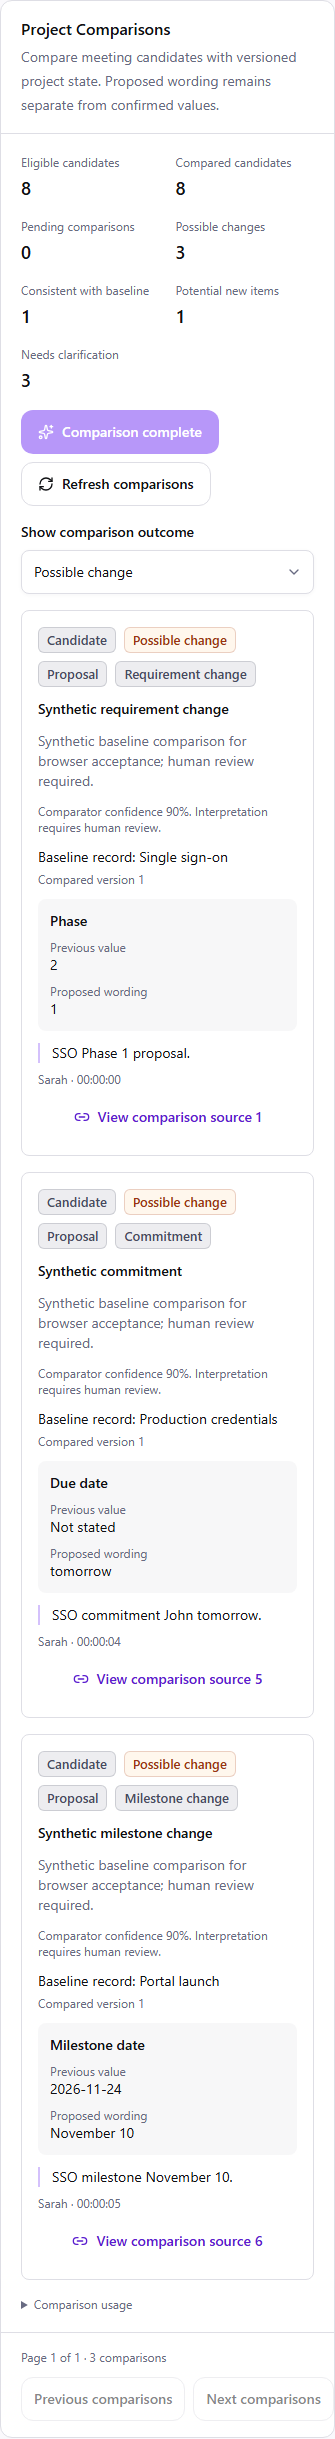
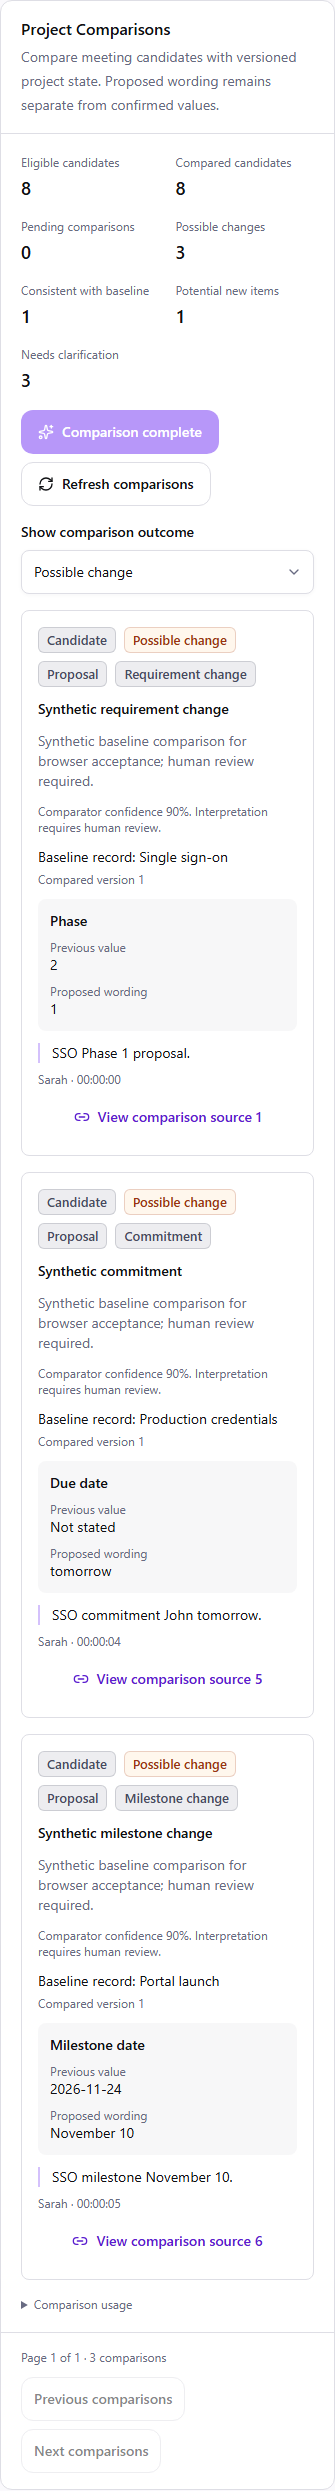
fix(phase-6): wrap comparison pagination on narrow screens

Changed region(s): [[0.0597, 0.0, 0.8657, 0.9971], [0.0896, 0.8725, 0.1194, 0.9036], [0.0896, 0.4051, 0.1194, 0.4362]]

diff --git a/apps/web/tests/e2e/deltas.spec.ts b/apps/web/tests/e2e/deltas.spec.ts
@@ -379,33 +379,34 @@ test("read and write outages preserve transcript and support recovery", async ({
     await request.delete(`${root}/${m.id}`);
   }
 });
-test("mobile keyboard operation wraps and keeps comparisons accessible", async ({
-  page,
-  request,
-}) => {
-  const m = await create(request, ["SSO Phase 1 proposal."]);
-  try {
-    await page.setViewportSize({ width: 375, height: 812 });
-    await page.goto(href(m.id));
-    const panel = region(page),
-      button = panel.getByRole("button", {
-        name: "Compare with project state",
-        exact: true,
-      });
-    await button.focus();
-    await page.keyboard.press("Enter");
-    await metric(panel, "Compared candidates", 1);
-    await panel.getByLabel("Show comparison outcome").focus();
-    await page.keyboard.press("ArrowDown");
-    await page.keyboard.press("Enter");
-    await expect
-      .poll(() =>
-        page.evaluate(
-          () => document.documentElement.scrollWidth <= window.innerWidth,
-        ),
-      )
-      .toBe(true);
-  } finally {
-    await request.delete(`${root}/${m.id}`);
-  }
-});
+for (const width of [320, 375])
+  test(`mobile keyboard operation wraps and keeps comparisons accessible at ${width}px`, async ({
+    page,
+    request,
+  }) => {
+    const m = await create(request, ["SSO Phase 1 proposal."]);
+    try {
+      await page.setViewportSize({ width, height: 812 });
+      await page.goto(href(m.id));
+      const panel = region(page),
+        button = panel.getByRole("button", {
+          name: "Compare with project state",
+          exact: true,
+        });
+      await button.focus();
+      await page.keyboard.press("Enter");
+      await metric(panel, "Compared candidates", 1);
+      await panel.getByLabel("Show comparison outcome").focus();
+      await page.keyboard.press("ArrowDown");
+      await page.keyboard.press("Enter");
+      await expect
+        .poll(() =>
+          page.evaluate(
+            () => document.documentElement.scrollWidth <= window.innerWidth,
+          ),
+        )
+        .toBe(true);
+    } finally {
+      await request.delete(`${root}/${m.id}`);
+    }
+  });

diff --git a/apps/web/src/components/meetings/project-comparisons.tsx b/apps/web/src/components/meetings/project-comparisons.tsx
@@ -375,7 +375,7 @@ export function ProjectComparisons({
         <p className="text-xs text-muted">
           Page {page} of {pages} · {data.filteredCount} comparisons
         </p>
-        <div className="flex gap-2">
+        <div className="flex flex-wrap gap-2">
           <Button
             variant="outline"
             size="sm"

diff --git a/docs/testing/phase-6-results.md b/docs/testing/phase-6-results.md
@@ -71,7 +71,7 @@ Final verification, 6 October 2026 (Asia/Calcutta):
 - Frontend unit regression: **73 passed**, including 12 new comparison cases.
 - Frontend lint/typecheck/format and final production build: passed.
 - Dependency audit: **zero vulnerabilities**.
-- Full production-browser regression: **78 passed in 1.8 minutes**, including eight
+- Full production-browser regression after CI layout correction: **79 passed in 2.5 minutes**, including nine
   comparison scenarios. Browser comparisons/extraction use test-only synthetic providers
   with real FastAPI/PostgreSQL; they do not prove live Gemini semantic accuracy.
 - Final desktop/mobile wording screenshot scenario: **passed** after rebuild; screenshots
@@ -101,6 +101,16 @@ partial batches, stable cache/IDs, leases, input/baseline changes, audit rollbac
 cascading evidence removal, pagination, source focus/reload, recovery and mobile input.
 Manual live acceptance uses the new sample transcript and documented meeting-page
 sequence. No live Gemini call was made; Phase 4/5/6 live semantic quality remains unverified.
+
+Final-head CI run `37434250160` passed backend and Windows checks but exposed mobile
+horizontal overflow in four meeting-page browser cases. Comparison pagination kept
+two buttons on one row. Reproduced locally at 320px and confirmed the overflowing
+Next comparisons button, then allowed the pagination group to wrap. The mobile
+keyboard acceptance scenario now covers both 320px and 375px. Production rebuild,
+lint and formatting pass; refreshed desktop/mobile screenshots were visually reviewed.
+The corrected full browser regression passes all 79 scenarios, including the four
+CI failures and both comparison mobile widths. Rechecked development fingerprints:
+all 489 pre-upgrade rows remain unchanged.
 
 ## Delivery and boundary
 

diff --git a/docs/testing/phase-6-manual-testing.md b/docs/testing/phase-6-manual-testing.md
@@ -53,7 +53,8 @@ The browser test entry point supplies synthetic responses and does not verify Ge
 - Add a disposable manual requirement, then refresh comparisons. Historical results
   show stale and comparison requires current relevance/extraction. A baseline/evidence
   change during a request discards the entire batch. Remove only the QA requirement.
-- At 375px, use Tab/Enter for controls and source links; long/Unicode wording wraps.
+- At 320px and 375px, use Tab/Enter for controls and source links; long/Unicode wording
+  and comparison pagination controls wrap within the panel.
 - Record date, commit, models, meeting/candidate/source IDs, observed counts, target
   versions, mismatches and provider errors. A small successful walkthrough verifies
   integration, not general semantic accuracy; broader independently labeled evaluation
